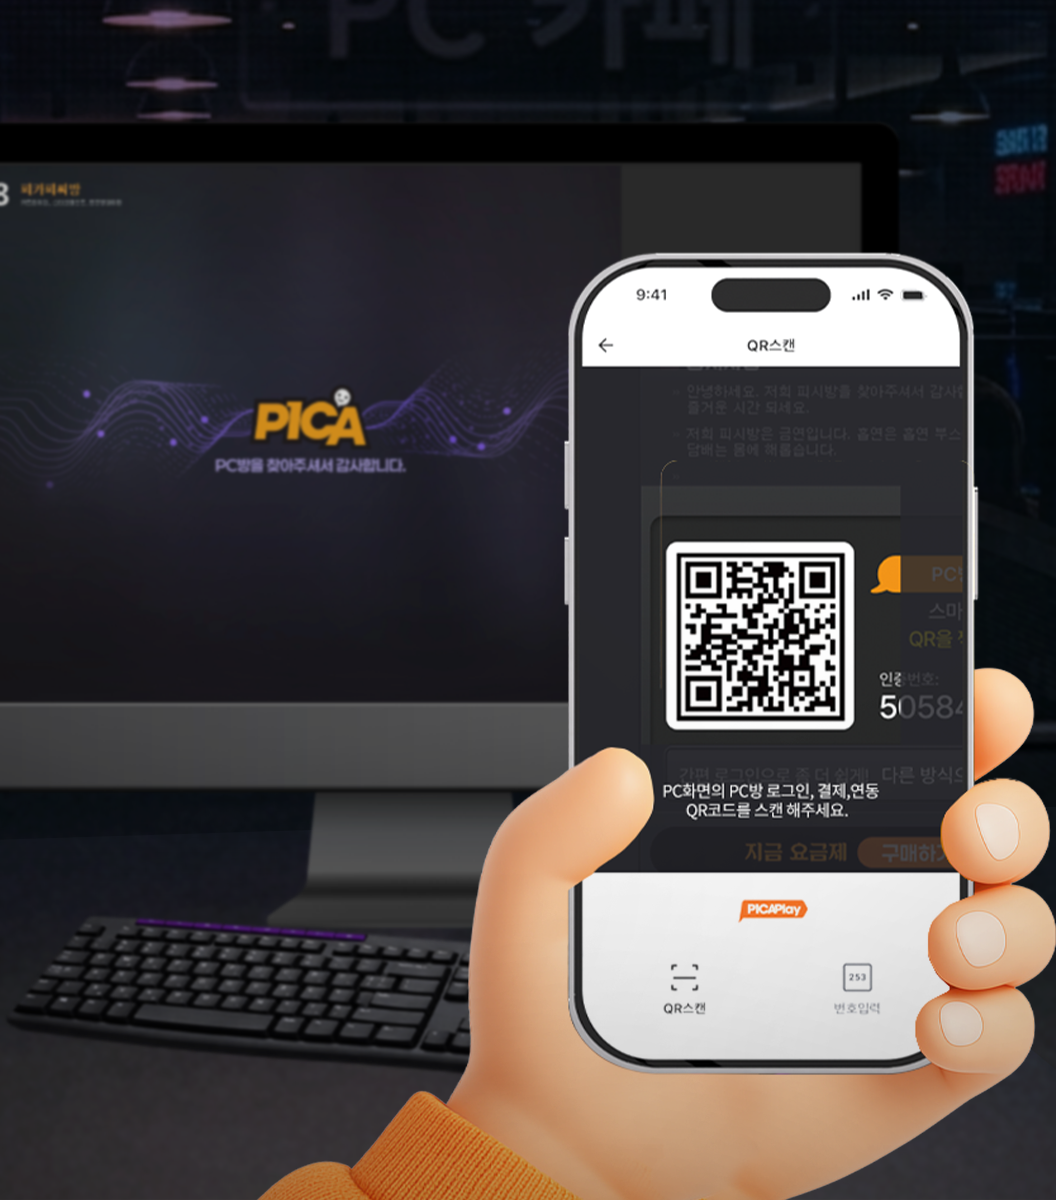
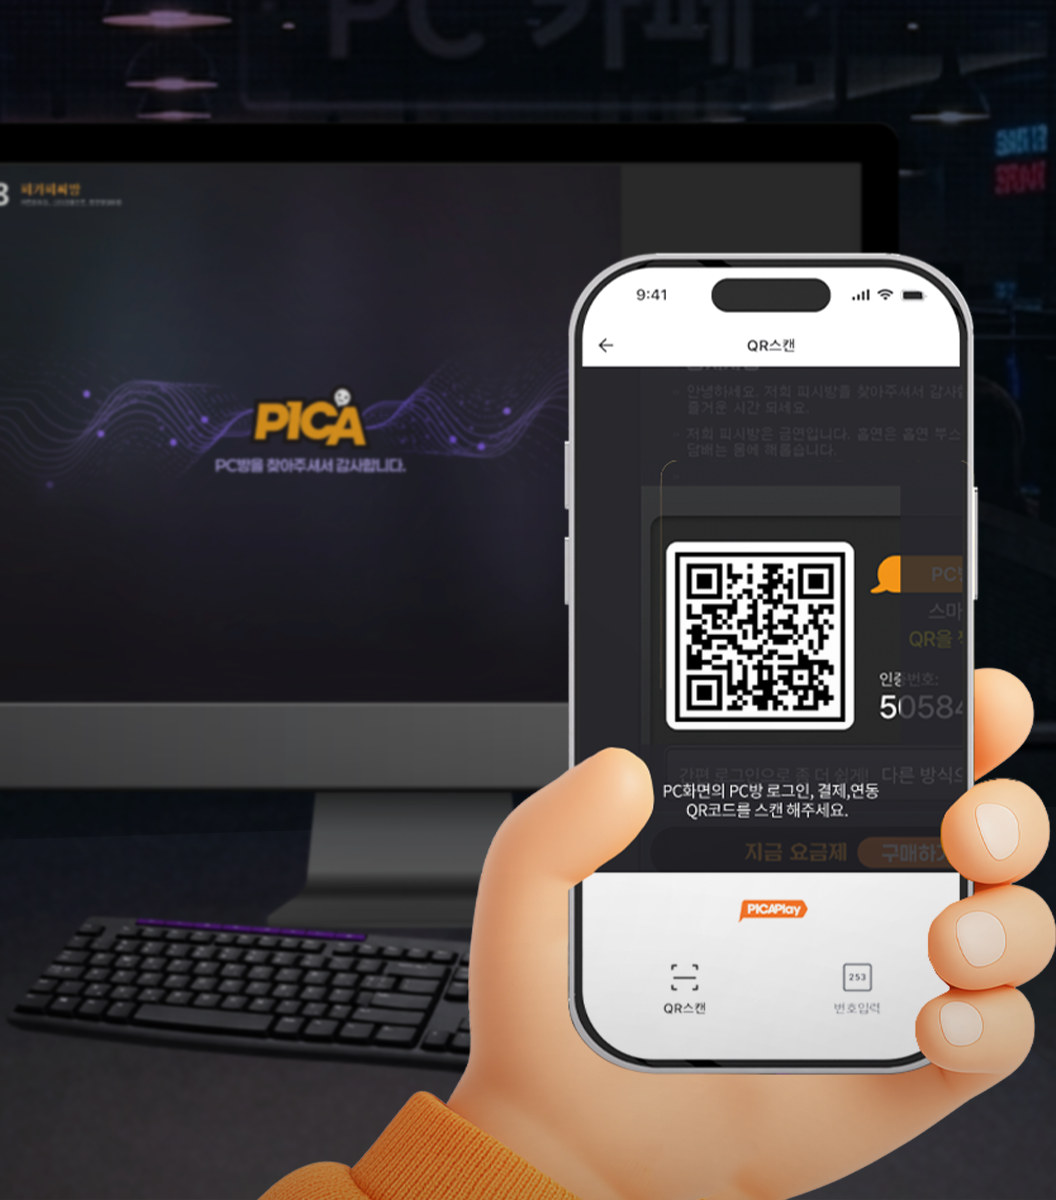
bullet과 텍스트 간 수정, 단어별 행바꿈 기능 추가, 썸네일 및 참여방법 QR 이미지 교체

Changed region(s): [[0.625, 0.4625, 0.8125, 0.6167]]

diff --git a/style.css b/style.css
@@ -69,10 +69,17 @@ a {
   font styles
 ════════════════════════════════════════════ */
 
+.event-tip-body p, 
+.event-tip-body .desc, 
+.event-tip-body li {
+  word-break: keep-all;
+  overflow-wrap: break-word;
+}
+
 /* 가장 큰 글씨 */
 .title {
   list-style: none;
-  margin-bottom: 4%;
+  /* margin-bottom: 4%; */
   font-size: clamp(1.25rem, 2.5vw, 2.125rem);
   font-weight: 700;
   color: #fff;
@@ -83,14 +90,14 @@ a {
   position: relative;
   margin-bottom: 2px;/* 각 항목 사이 간격 */
   text-align: left;
-  margin-left: 10px;
+  margin-left: 30px; /*들여쓰기*/
 }
 
 
 .title li::before {
   content: "✦";
   position: absolute;
-  left: -20px;
+  left: -40px;
   top: 0px;
 }
 

diff --git a/index.html b/index.html
@@ -240,7 +240,6 @@
               <div class="notice-awai">
                 <ul class="notice">
                   <li>마일리지는 로그인한 피카플레이 계정으로 자동 지급됩니다.</li>
-                  <li>마일리지는 로그인한 피카플레이 계정으로 자동 지급됩니다.</li>
                   <li>마일리지 보상은 수량이 한정되어 있으며, 소진 시 지급 종료됩니다.</li>
                   <li>미션 달성현황 및 마일리지 소진 여부는 크래프트박스 ‘혜택박스 → 마일리지 혜택’ 메뉴의 게임 미션 배너를 통해 확인 가능합니다.</li>
                 </ul>
